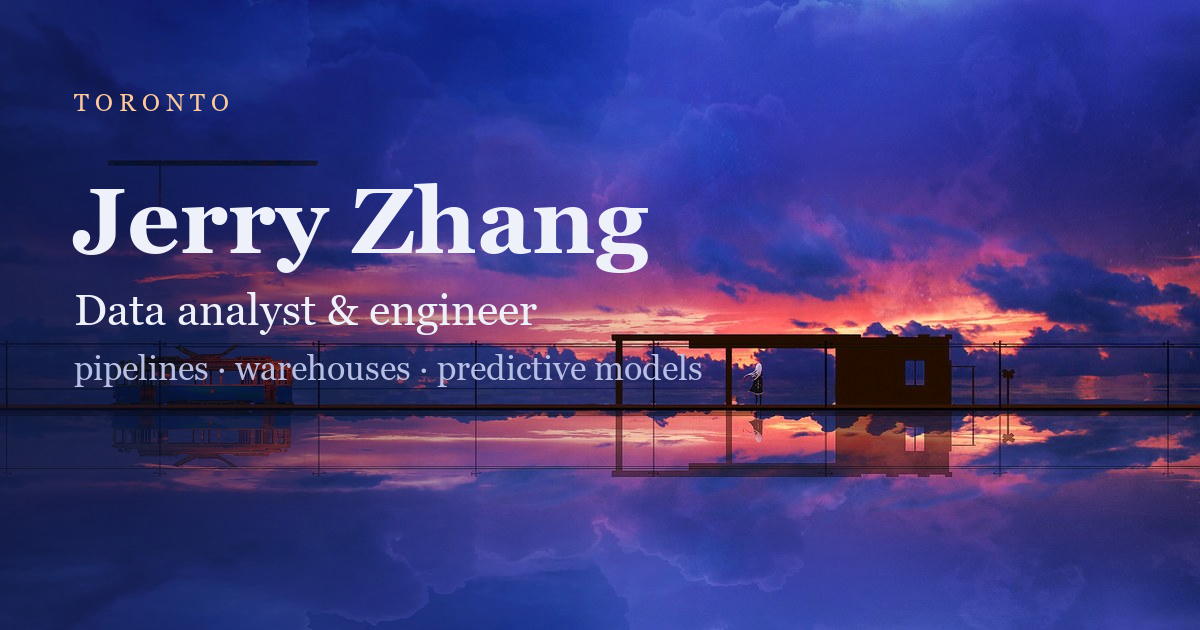
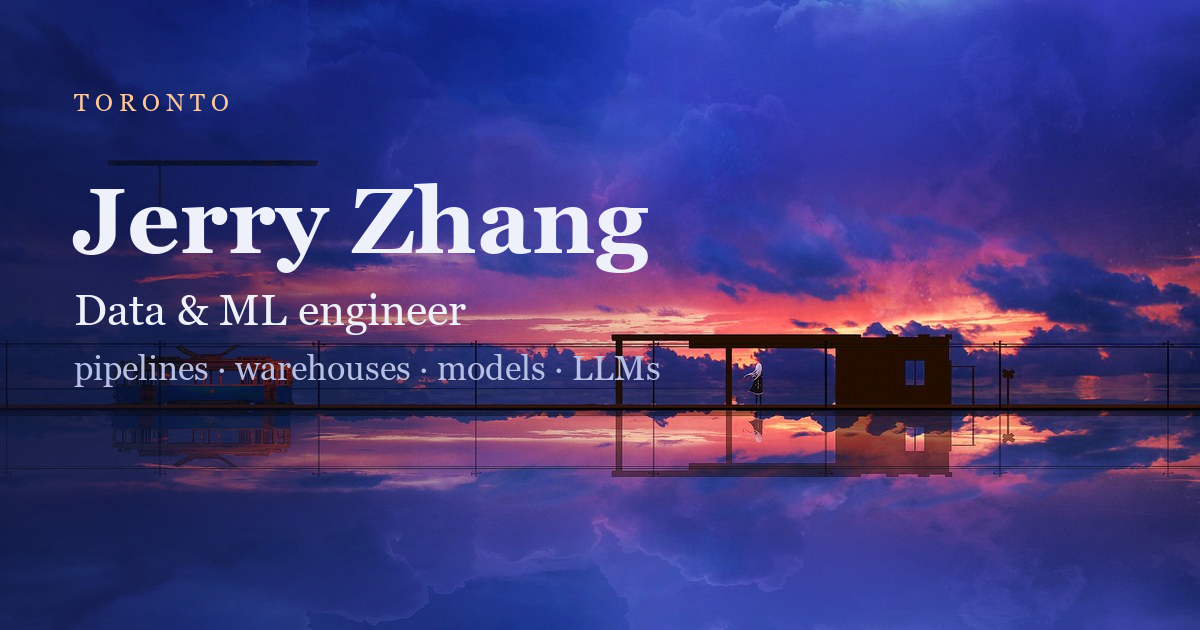
Update projects, skills and links to match current resume

Changed region(s): [[0.1233, 0.4524, 0.4625, 0.5429], [0.37, 0.5429, 0.5858, 0.6032]]

diff --git a/index.html b/index.html
@@ -3,21 +3,21 @@
 <head>
   <meta charset="UTF-8">
   <meta name="viewport" content="width=device-width, initial-scale=1.0">
-  <title>Jerry Zhang &mdash; Data & ML</title>
-  <meta name="description" content="Jerry (Shien) Zhang &mdash; data analyst & engineer. Data warehouses, predictive models, and the automation around them.">
+  <title>Jerry Zhang | Data & ML</title>
+  <meta name="description" content="Jerry (Shien) Zhang, data and ML engineer in Toronto. Data warehouses, predictive models, LLM fine-tuning, and the automation around them.">
 
   <!-- Link preview card (LinkedIn, Slack, iMessage). Without og:image these
        platforms render a broken-image placeholder next to the link. -->
   <meta property="og:type" content="website">
   <meta property="og:url" content="https://personal-portfolio-jade-eta-20.vercel.app/">
-  <meta property="og:title" content="Jerry Zhang &mdash; Data Analyst &amp; Engineer">
-  <meta property="og:description" content="Pipelines, warehouses and predictive models &mdash; a Kaggle-validated credit-risk model, a CI-tested SQL Server warehouse, and a DuckDB analytics platform.">
+  <meta property="og:title" content="Jerry Zhang | Data and ML">
+  <meta property="og:description" content="Pipelines, warehouses and models: a Kaggle-validated credit-risk model, a SQL Server and Databricks warehouse with a parity check, and a portfolio analytics platform on AWS and Snowflake.">
   <meta property="og:image" content="https://personal-portfolio-jade-eta-20.vercel.app/og.png">
   <meta property="og:image:width" content="1200">
   <meta property="og:image:height" content="630">
   <meta property="og:image:alt" content="Evening train station over water, with the name Jerry Zhang and the words data analyst and engineer.">
   <meta name="twitter:card" content="summary_large_image">
-  <meta name="twitter:title" content="Jerry Zhang &mdash; Data Analyst &amp; Engineer">
+  <meta name="twitter:title" content="Jerry Zhang | Data and ML">
   <meta name="twitter:description" content="Pipelines, warehouses and predictive models.">
   <meta name="twitter:image" content="https://personal-portfolio-jade-eta-20.vercel.app/og.png">
 
@@ -48,21 +48,21 @@
       <p class="eyebrow mono">TORONTO &middot; DATA &amp; MACHINE LEARNING</p>
       <h1>Jerry Zhang</h1>
       <p class="hero-line">I turn messy data into pipelines, models, and decisions.</p>
-      <p class="hero-sub">Bachelor of Computing (Honours) at Queen's University, class of 2026.
-        I like owning the whole path &mdash; ingest, warehouse, model, dashboard &mdash; and proving
+      <p class="hero-sub">Bachelor of Computing (Honours), Queen's University, 2026.
+        I like owning the whole path, from ingest to warehouse to model to dashboard, and proving
         each step with tests and real numbers.</p>
       <div class="hero-actions mono">
         <a href="https://github.com/C0k11" target="_blank" rel="noopener">GitHub &#8599;</a>
-        <a href="https://www.linkedin.com/in/jerry-zhang-575628300" target="_blank" rel="noopener">LinkedIn &#8599;</a>
+        <a href="https://www.linkedin.com/in/jerryzhang-data" target="_blank" rel="noopener">LinkedIn &#8599;</a>
         <a href="mailto:shienzhang542@gmail.com">Email</a>
       </div>
-      <p class="hero-hint mono" aria-hidden="true">move &mdash; the scene bends with you</p>
+      <p class="hero-hint mono" aria-hidden="true">move the cursor and the scene bends with you</p>
     </section>
 
     <!-- ================= EXPERIENCE ================= -->
     <section class="section" id="work">
       <div class="section-head">
-        <span class="mono sec-label">01 &mdash; WORK</span>
+        <span class="mono sec-label">01 / WORK</span>
         <h2>Experience</h2>
       </div>
 
@@ -72,12 +72,14 @@
           <span class="mono job-when">May &ndash; Aug 2025 &middot; Toronto</span>
         </div>
         <ul>
-          <li>Extracted structured data from 10-K/10-Q filings with Python, mapping unstructured
-              text to standardized fields for downstream signal generation.</li>
-          <li>Owned end-to-end validation of catalog signals &mdash; SQL queries and Python unit tests
-              checking outputs against raw filings before analyst delivery.</li>
-          <li>Built dbt/SQL data-quality rules across filing, pricing, and entity data, and Tableau
-              dashboards over the validated warehouse.</li>
+          <li>Parsed 10-K/10-Q PDF and HTML filings with Python (pdfplumber, BeautifulSoup) into
+              standardized XBRL fields for signal generation.</li>
+          <li>Owned end-to-end validation of catalog signals, using SQL queries and Python unit tests
+              to flag discrepancies before analyst delivery.</li>
+          <li>Wrote dbt/SQL data-quality rules across filing, pricing, and entity data, and documented
+              the edge cases for engineers.</li>
+          <li>Onboarded IR presentation data with a Python ingestion script scheduled and monitored
+              in Airflow, and built Tableau dashboards over the validated warehouse.</li>
         </ul>
       </article>
 
@@ -87,8 +89,8 @@
           <span class="mono job-when">May &ndash; Aug 2024 &middot; Remote</span>
         </div>
         <ul>
-          <li>Sole developer of the corporate site &mdash; HTML5, CSS3, Three.js, with an interactive
-              visualization of export logistics and a mobile-first responsive layout.</li>
+          <li>Delivered the official corporate website as sole developer, using HTML5, CSS3,
+              and Three.js.</li>
         </ul>
       </article>
     </section>
@@ -96,39 +98,44 @@
     <!-- ================= PROJECTS ================= -->
     <section class="section" id="projects">
       <div class="section-head">
-        <span class="mono sec-label">02 &mdash; SELECTED PROJECTS</span>
+        <span class="mono sec-label">02 / SELECTED PROJECTS</span>
         <h2>Projects</h2>
       </div>
 
       <article class="panel project">
         <div class="project-head">
           <h3><a href="https://github.com/C0k11/stock-share-Helper" target="_blank" rel="noopener">QuantAI</a></h3>
-          <span class="mono proj-when">Nov 2025 &mdash;</span>
+          <span class="mono proj-when">Since Nov 2025</span>
         </div>
         <p class="project-tag">Quantitative portfolio-analysis platform</p>
         <p>Tracks a real brokerage portfolio by turning daily market data and news into a SQL
            warehouse, dashboards, and automated analyst reports.</p>
         <ul>
-          <li>Idempotent ELT into a DuckDB star schema &mdash; 2 dimensions, 8 fact tables,
-              reconciliation tests agreeing to within 1e-6.</li>
-          <li>Found and fixed a look-ahead bias that had overstated backtest returns ~3.5&times;.</li>
-          <li>Black-Scholes options engine &mdash; pricing, Greeks, implied vol &mdash; so hedge cards
-              quote numbers the engine computed, never the model's.</li>
+          <li>Idempotent ELT into a DuckDB star schema with 2 dimensions and 8 fact tables;
+              reconciliation tests agree with pandas to within 1e-6.</li>
+          <li>Runs the weekday evening market-data pipeline on AWS Lambda, S3 and EventBridge
+              Scheduler, with CloudWatch alarms that email me when a run fails or never starts.</li>
+          <li>Ran the same dbt project on Snowflake from S3 Parquet; all 68 dbt checks pass and
+              36,277 mart rows match DuckDB cell by cell.</li>
+          <li>Found and fixed a look-ahead bias that had overstated backtest returns about 3.5&times;.</li>
+          <li>Black-Scholes options engine (pricing, Greeks, implied vol), so hedge cards quote
+              numbers the engine computed, never the model's.</li>
           <li>Fine-tuned a local Qwen3-8B with QLoRA to draft the daily market reports,
               gated by blind evaluation.</li>
+          <li>A five-page Power BI report plus a hidden QA page with 67 DAX-vs-pandas checks.</li>
         </ul>
         <div class="chips mono">
-          <span>68 dbt checks</span><span>24 indicators</span><span>748 tests</span>
+          <span>68 dbt checks</span><span>24 indicators &amp; stats</span><span>790+ tests</span>
         </div>
       </article>
 
       <article class="panel project">
         <div class="project-head">
           <h3><a href="https://github.com/C0k11/credit-default-prediction" target="_blank" rel="noopener">Credit Default Prediction</a></h3>
-          <span class="mono proj-when">Jul 2026</span>
+          <span class="mono proj-when">Jul &ndash; Sep 2026</span>
         </div>
         <p class="project-tag">Machine learning on loan data</p>
-        <p>Predicts which loan applicants will default &mdash; validated externally on the Kaggle
+        <p>Predicts which loan applicants will default. Validated externally on the Kaggle
            leaderboard rather than on my own split.</p>
         <ul>
           <li>Aggregated 58M rows of credit history across 6 related tables into 75
@@ -137,6 +144,8 @@
               from 0.759 to 0.789.</li>
           <li>SHAP explanations for every score; the riskiest 20% of applicants capture
               57% of all defaults.</li>
+          <li>Serves the final model as a scoring API on AWS Lambda behind API Gateway, deployed
+              by GitHub Actions with no stored keys; model files are pinned by SHA-256.</li>
         </ul>
         <div class="chips mono">
           <span>AUC 0.785 &middot; Kaggle</span><span>58M rows</span><span>75 features</span>
@@ -149,15 +158,15 @@
           <span class="mono proj-when">Jul 2026</span>
         </div>
         <p class="project-tag">One warehouse spec, two engines</p>
-        <p>Raw customer, product, and sales files &rarr; clean, analysis-ready star schema,
+        <p>Turns raw customer, product, and sales files into a clean, analysis-ready star schema,
            with quality gates that block bad data from ever reaching a report. Built
-           twice &mdash; T-SQL on SQL Server, and PySpark + Delta Lake on Databricks.</p>
+           twice: T-SQL on SQL Server, and PySpark + Delta Lake on Databricks.</p>
         <ul>
           <li>Bronze / silver / gold layers with per-run audit logging and row-count
               reconciliation against source files.</li>
           <li>40 automated quality checks; caught three silent corruption bugs
               (encoding, line endings, dropped rows).</li>
-          <li>A parity harness fingerprints both engines and diffs them &mdash; 296
+          <li>A parity harness fingerprints both engines and diffs them. 296
               measurements across 11 tables match exactly, so the migration is
               provably lossless rather than assumed to be.</li>
           <li>CI rebuilds and re-verifies <em>both</em> engines on every push.</li>
@@ -171,11 +180,11 @@
         <span class="mono sec-label">ALSO BUILT</span>
         <ul class="more-list">
           <li><a href="https://github.com/C0k11/game-ui-cv-agent" target="_blank" rel="noopener">AI Game Secretary</a>
-              <span class="mono">&mdash; 47K frames audited down to a 34K labelled set, 3 detectors over 455 classes, 98.1% mAP50 on the UI model</span></li>
+              <span class="mono">47K frames audited down to a 34K labelled set, 3 detectors over 455 classes, 98.1% mAP50 on the UI model</span></li>
           <li><a href="https://github.com/C0k11/Conference-Database" target="_blank" rel="noopener">Conference Database</a>
-              <span class="mono">&mdash; 13-table MySQL design + validated analytics query pack</span></li>
+              <span class="mono">13-table MySQL design and a validated analytics query pack</span></li>
           <li><a href="https://github.com/AheadAlot/CISC-486-Group-14-Project" target="_blank" rel="noopener">Castle Champions</a>
-              <span class="mono">&mdash; multiplayer Unity game, CISC 486 team project</span></li>
+              <span class="mono">multiplayer Unity game, CISC 486 team project</span></li>
         </ul>
       </div>
     </section>
@@ -183,7 +192,7 @@
     <!-- ================= SKILLS ================= -->
     <section class="section" id="skills">
       <div class="section-head">
-        <span class="mono sec-label">03 &mdash; TOOLBOX</span>
+        <span class="mono sec-label">03 / TOOLBOX</span>
         <h2>Skills</h2>
       </div>
       <div class="panel skills-grid">
@@ -192,17 +201,26 @@
           <p>Python &middot; SQL &middot; R &middot; C# &middot; TypeScript</p>
         </div>
         <div>
-          <h4 class="mono">DATA &amp; ML</h4>
-          <p>pandas &middot; NumPy &middot; scikit-learn &middot; LightGBM &middot; XGBoost &middot; PyTorch &middot; QLoRA &middot; SHAP</p>
-        </div>
-        <div>
           <h4 class="mono">DATA ENGINEERING</h4>
-          <p>ETL / ELT &middot; dimensional modeling &middot; SQL Server / T-SQL &middot; PySpark &middot; Delta Lake &middot;
-             Databricks &middot; DuckDB &middot; dbt &middot; Airflow</p>
+          <p>ETL / ELT &middot; dimensional modeling &middot; Snowflake &middot; SQL Server / T-SQL &middot; PySpark &middot;
+             Delta Lake &middot; Databricks &middot; DuckDB &middot; dbt &middot; Airflow</p>
         </div>
         <div>
-          <h4 class="mono">VIZ &amp; TOOLS</h4>
-          <p>Tableau &middot; Streamlit &middot; Plotly &middot; FastAPI &middot; Docker &middot; Git &middot; GitHub Actions</p>
+          <h4 class="mono">MACHINE LEARNING</h4>
+          <p>pandas &middot; NumPy &middot; scikit-learn &middot; LightGBM &middot; XGBoost &middot; SHAP</p>
+        </div>
+        <div>
+          <h4 class="mono">LLM &amp; VISION</h4>
+          <p>PyTorch &middot; QLoRA / LoRA &middot; DPO &middot; RAG &middot; prompt engineering &middot; YOLO &middot; OpenCV</p>
+        </div>
+        <div>
+          <h4 class="mono">CLOUD &amp; DEVOPS</h4>
+          <p>AWS (Lambda, S3, API Gateway, IAM, CloudWatch) &middot; Terraform &middot; Docker &middot;
+             GitHub Actions CI/CD &middot; FastAPI &middot; Git</p>
+        </div>
+        <div>
+          <h4 class="mono">VIZ</h4>
+          <p>Power BI (DAX, Power Query) &middot; Tableau &middot; Streamlit &middot; Plotly</p>
         </div>
       </div>
     </section>
@@ -210,23 +228,23 @@
     <!-- ================= CONTACT ================= -->
     <section class="section" id="contact">
       <div class="section-head">
-        <span class="mono sec-label">04 &mdash; SAY HI</span>
+        <span class="mono sec-label">04 / SAY HI</span>
         <h2>Contact</h2>
       </div>
       <div class="panel contact-panel">
-        <p>Graduating April 2026 and looking for data analyst / data science / data engineering
-           roles. The fastest way to reach me:</p>
+        <p>Graduated April 2026. Looking for data engineering, data science, analytics, and
+           ML / AI engineering roles in Toronto. The fastest way to reach me:</p>
         <div class="hero-actions mono">
           <a href="mailto:shienzhang542@gmail.com">shienzhang542@gmail.com</a>
           <a href="https://github.com/C0k11" target="_blank" rel="noopener">github.com/C0k11 &#8599;</a>
-          <a href="https://www.linkedin.com/in/jerry-zhang-575628300" target="_blank" rel="noopener">LinkedIn &#8599;</a>
+          <a href="https://www.linkedin.com/in/jerryzhang-data" target="_blank" rel="noopener">LinkedIn &#8599;</a>
         </div>
       </div>
     </section>
 
     <footer class="mono">
       <span>&copy; 2026 Jerry Zhang</span>
-      <span>background: Lifeline &mdash; evening station</span>
+      <span>background: Lifeline, evening station</span>
     </footer>
 
   </main>

diff --git a/make-og.py b/make-og.py
@@ -37,8 +37,8 @@ img = Image.composite(veil, img, mask)
 
 d = ImageDraw.Draw(img)
 d.text((72, 168), "Jerry Zhang", font=font(92, True), fill=(238, 241, 250))
-d.text((74, 284), "Data analyst & engineer", font=font(44), fill=(238, 241, 250))
-d.text((74, 348), "pipelines \u00b7 warehouses \u00b7 predictive models",
+d.text((74, 284), "Data & ML engineer", font=font(44), fill=(238, 241, 250))
+d.text((74, 348), "pipelines \u00b7 warehouses \u00b7 models \u00b7 LLMs",
        font=font(34), fill=(183, 192, 228))
 d.text((74, 88), "T O R O N T O", font=font(24), fill=(255, 200, 154))
 

diff --git a/README.md b/README.md
@@ -15,5 +15,5 @@ Deployed on Vercel from `main`.
 
 - **Email**: shienzhang542@gmail.com
 - **GitHub**: [github.com/C0k11](https://github.com/C0k11)
-- **LinkedIn**: [linkedin.com/in/jerry-zhang-575628300](https://www.linkedin.com/in/jerry-zhang-575628300)
+- **LinkedIn**: [linkedin.com/in/jerryzhang-data](https://www.linkedin.com/in/jerryzhang-data)
 - **Location**: Toronto, ON, Canada
